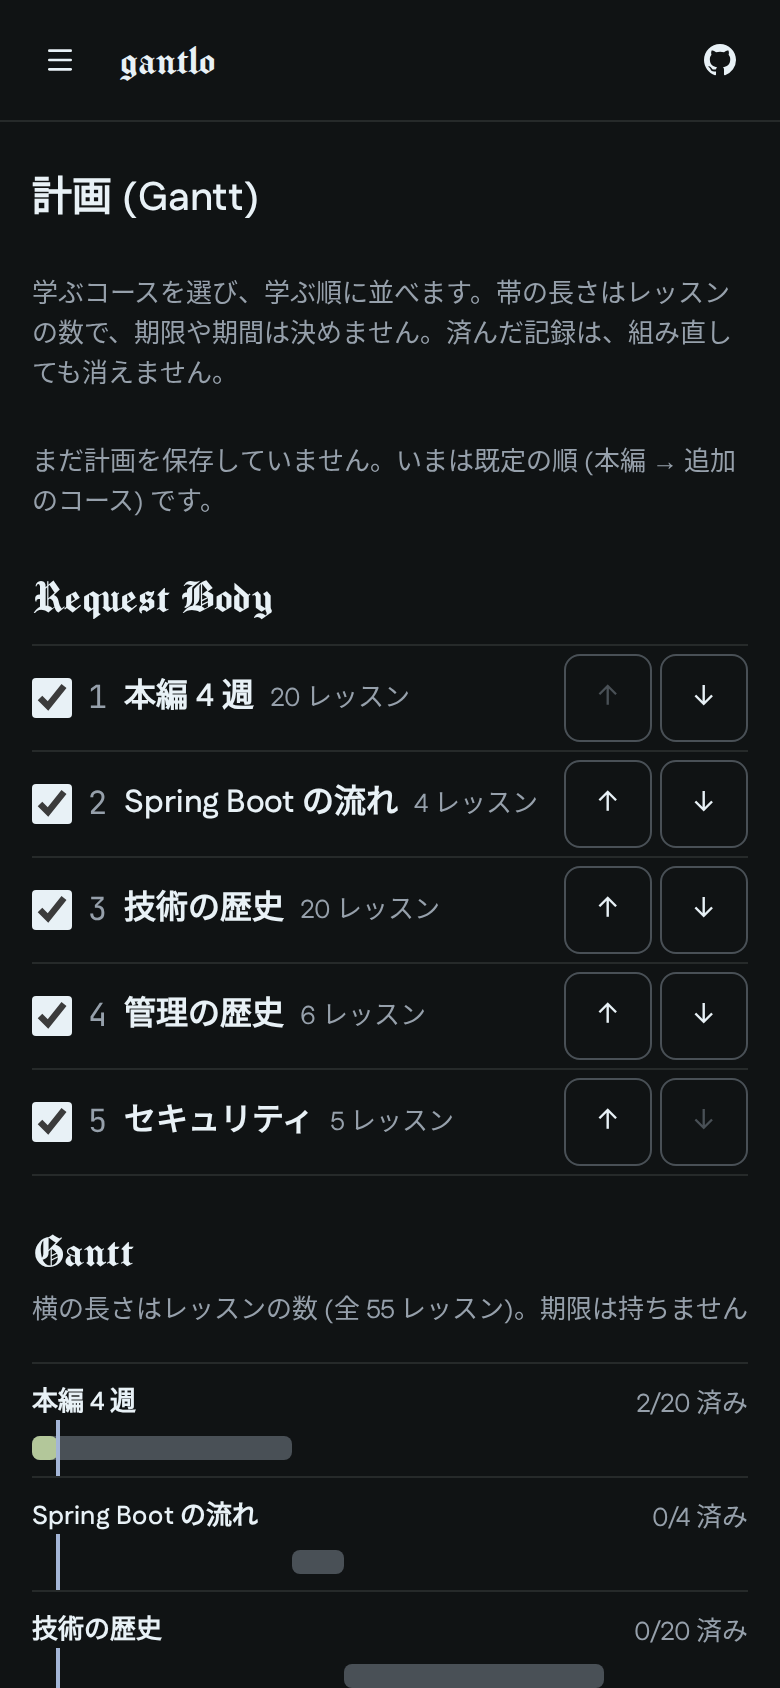
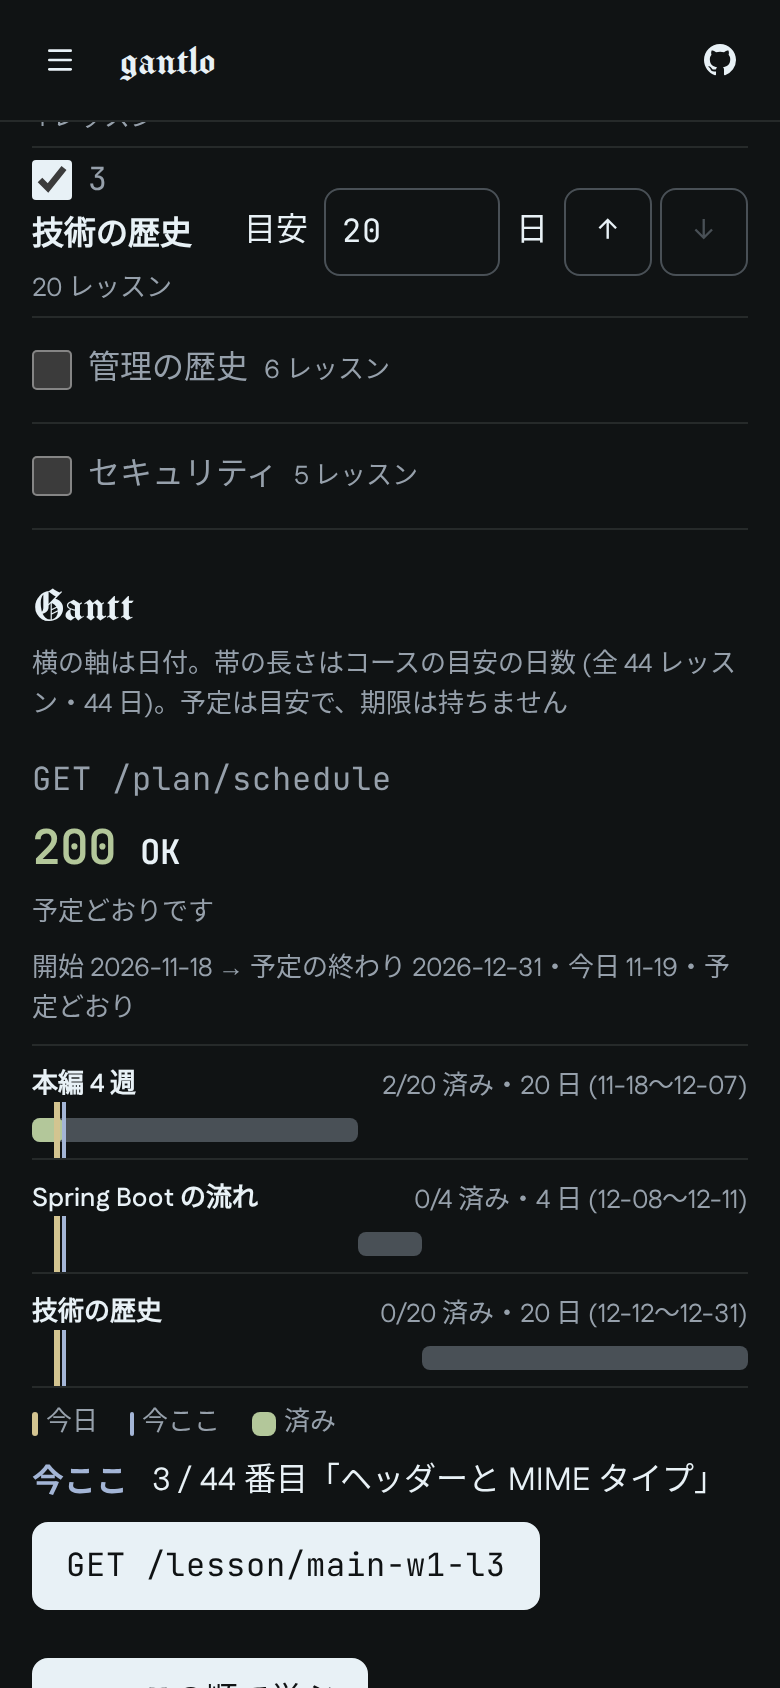
#33 の計画の画面に合わせて README の画像を撮り直す
見本の進捗に計画 (昨日から本編 → Spring Boot → 技術の歴史) を入れ、計画の写しは予定の帯と巻き・遅れの判定が見える所で撮る。
README の計画の説明、メニューの scroll-margin と「準備中」の記述も今の作りに合わせる。

Refs #31

diff --git a/README.md b/README.md
@@ -18,12 +18,12 @@
 <table>
   <tr>
     <td width="33%"><img alt="ホーム: GET /me の 206 と、リクエストの旅の 8 段のウォーターフォール" src="docs/images/home-phone.png"></td>
-    <td width="33%"><img alt="計画: コースを選んで並べる一覧と、レッスンの数を帯にしたガントチャート" src="docs/images/plan-phone.png"></td>
+    <td width="33%"><img alt="計画: コースを選んで並べる一覧と、開始日から引いた予定の帯" src="docs/images/plan-phone.png"></td>
     <td width="33%"><img alt="コマンドの穴埋め: 誤った答えの 400 Bad Request と X-Expected・Retry-After・出典" src="docs/images/fill-phone.png"></td>
   </tr>
   <tr>
     <td>ホーム。進み具合をステータスで返し、旅の 8 段を開発者ツールのウォーターフォールの形で見せる</td>
-    <td>計画。学ぶコースと順を選ぶと、レッスンの数に比例した帯を引く。期限は持たない</td>
+    <td>計画。学ぶコースと順・開始日・目安の日数を決めると予定の帯を引き、巻き・遅れを出す</td>
     <td>穴埋めの不正解は <code>400 Bad Request</code>。正しい答え・翌日の復習・出典をヘッダーの形で出す</td>
   </tr>
 </table>
@@ -78,7 +78,7 @@
 | このサイトについて (`/gantlo/about/`) | `GET /about` への応答 (`200 OK`)。サイトの説明・ソースコード (GitHub)・Issue を書く・記録の置き場所・AI に聞く・問題の出典・ライセンス。文の正本は `src/lib/about.ts` |
 | まだ無い画面 | `501 Not Implemented` |
 | 知らない URL | `404 Not Found` |
-| メニュー | 左。PC では常に出し、スマホでは左から開く引き出し。「このサイトについて」と「GitHub のリポジトリ」は一覧の下端に留める (PC は SideNav の `footer`、スマホは MobileNav に footer が無いので CSS の sticky) |
+| メニュー | 左。PC では常に出し、スマホでは左から開く引き出し。「このサイトについて」と「GitHub のリポジトリ」は一覧の下端に留める (PC は SideNav の `footer`、スマホは MobileNav に footer が無いので CSS の sticky。一覧のリンクは下端の 2 つの高さ (`--nav-foot-h`) を `scroll-margin-bottom` にし、Tab で進んでも隠れない) |
 | 上の帯 | 右端に GitHub のリポジトリを新しいタブで開くボタン (どの画面でも)。スマホでは左端にメニューのボタンとサイト名も置く |
 
 見た目は Meta のデザインシステム [Astryx](https://github.com/meta/astryx) の **Gothic** テーマ (`@astryxdesign/theme-gothic`) です。暗い画面だけのテーマで、飾りの見出し文字は英字にだけ使います。
@@ -218,7 +218,7 @@ flowchart LR
 | `src/components/AppSideNav.tsx` | 左のメニュー。PC の SideNav とスマホの MobileNav で同じ項目を使い、「このサイトについて」と「GitHub のリポジトリ」(`SiteItems`) は下端に留める |
 | `src/components/MobileBar.tsx`・`src/components/RepoLink.tsx` | 上の帯と、その右端の GitHub のボタン (`RepoLink`。GitHub の印は `GitHubMark`)。768px 以上ではメニューのボタンとサイト名を隠し、GitHub のボタンだけ残す |
 | `tests/e2e-unsorted.test.ts` | e2e で並べ替えを正しくない答えで送るときの並び (`scripts/e2e-lessons.mjs` の `unsortedTarget`) が、2〜6 項目のどの始めの並びからでも正しい順と違い `409` になり、3 項目以上では正しい位置の行も残ることを、並びをすべて試して見る |
-| `scripts/e2e-about.mjs` | `scripts/e2e.mjs` から呼ぶ、メニューの下端の 2 つ・上の帯の GitHub のボタン・このサイトについての検査。390 幅と 1280 幅で、ホーム・計画・レッスン・用語集・404・このサイトについての画面ごとに、2 つが一覧の最後のコースより下で画面の下端から 120px 以内にあること、上の帯の右端 (24px 以内) に新しいタブで開く GitHub のボタンがあること、メニューから about が開き 200 と題とボタンが出て選ばれた印になること、コースに「準備中」が付かないこと、390 幅で 44px 以上であることを見る |
+| `scripts/e2e-about.mjs` | `scripts/e2e.mjs` から呼ぶ、メニューの下端の 2 つ・上の帯の GitHub のボタン・このサイトについての検査。390 幅と 1280 幅で、ホーム・計画・レッスン・用語集・404・このサイトについての画面ごとに、2 つが一覧の最後のコースより下で画面の下端から 120px 以内にあること、上の帯の右端 (24px 以内) に新しいタブで開く GitHub のボタンがあること、メニューから about が開き 200 と題とボタンが出て選ばれた印になること、コースに (コースの画面が 501 の間は)「準備中」が付くこと、390 幅で 44px 以上であること、390x500 (メニューがスクロールする高さ) で Tab で進んだ手元の行が下端の 2 つの下に隠れないことを見る |
 | `scripts/readme-images.mjs` | README の画像を撮る (`npm run readme:images`)。帯の画像は組み立てたサイトから Gothic のトークンと字体を読んで描く。画面は見本の進捗を入れて 390 幅 (と PC のホームを 1280 幅) で撮る。番号は `README_IMAGES_PORT` (既定 4331、`--strictPort`) |
 | `src/lib/pageMeta.ts` | 画面の題の正本。サイトの中で移ったときの `document.title` と、書き出す HTML の `<title>` が同じ関数を使う |
 | `src/prerender/pages.ts` | 書き出すページの一覧 (ホーム・メニューの画面・全コース・全レッスン) と、ページごとの題・説明・本文。画面と同じデータ (経路・コース・レッスン・用語集) から作る。用語集のページは全部の語・説明・出典を本文に書く (検索に載せる)。リンクの href も文字と同じく escape する。レッスンの見出しは題で、本文は問題文まで (答えと解説は書かない)。一人ひとりの記録の画面 (計画・復習・進捗・設定) は noindex にして sitemap から外す。画面の JS には入らない |
@@ -244,7 +244,7 @@ npm run readme:images  # README の画像 (docs/images/) を撮り直す
 `main` にマージすると、GitHub Actions が GitHub Pages に配ります (`.github/workflows/deploy.yml`)。
 ## まだ無いもの
 
-コースのレッスンの一覧 (コースの画面) は、これから作ります。今は `501 Not Implemented` を出します (どのコースにもレッスンはあるので、メニューのコースに「準備中」は付けません)。問題を足したときに用語集の「出てくるレッスン」を足す手順は [docs/content-format.md](docs/content-format.md) にあります。
+コースのレッスンの一覧 (コースの画面) は、これから作ります。今は `501 Not Implemented` を出し、メニューのコースには「準備中」と出しています (コースの画面を作るときに外します)。問題を足したときに用語集の「出てくるレッスン」を足す手順は [docs/content-format.md](docs/content-format.md) にあります。
 
 ## ライセンス
 
